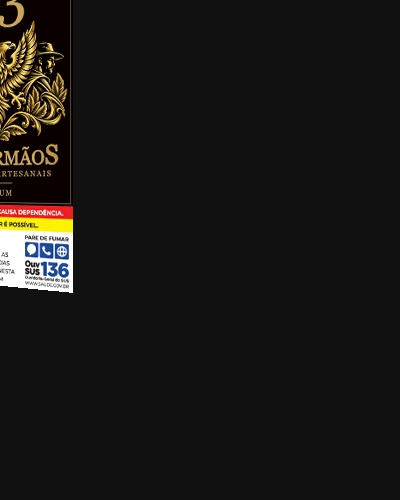
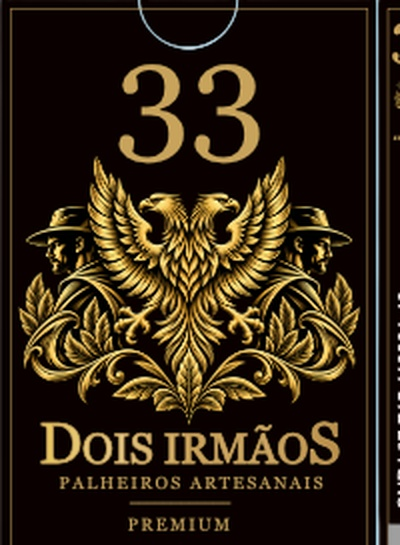
Ajuste na proporcao do Dois Irmaos

diff --git a/distribuidores.html b/distribuidores.html
@@ -104,7 +104,7 @@
 
 <section class="marcas">
     <a href="palheirosdoisirmaos/" class="card-marca reveal" onclick="gtag('event','click_marca_card',{event_category:'distribuicao',event_label:'dois_irmaos'})">
-        <img src="palheirosdoisirmaos/maco-frontal.jpg" alt="Palheiros Dois Irmãos" loading="lazy" style="object-fit:cover;">
+        <img src="palheirosdoisirmaos/maco-frontal.jpg" alt="Palheiros Dois Irmãos" loading="lazy" style="object-fit:contain; background:#111; padding: 10px;">
         <div class="info">
             <h3>Dois Irmãos</h3>
             <p>A tradição do fumo goiano que atravessou fronteiras. Palheiro artesanal premium, feito à mão.</p>
